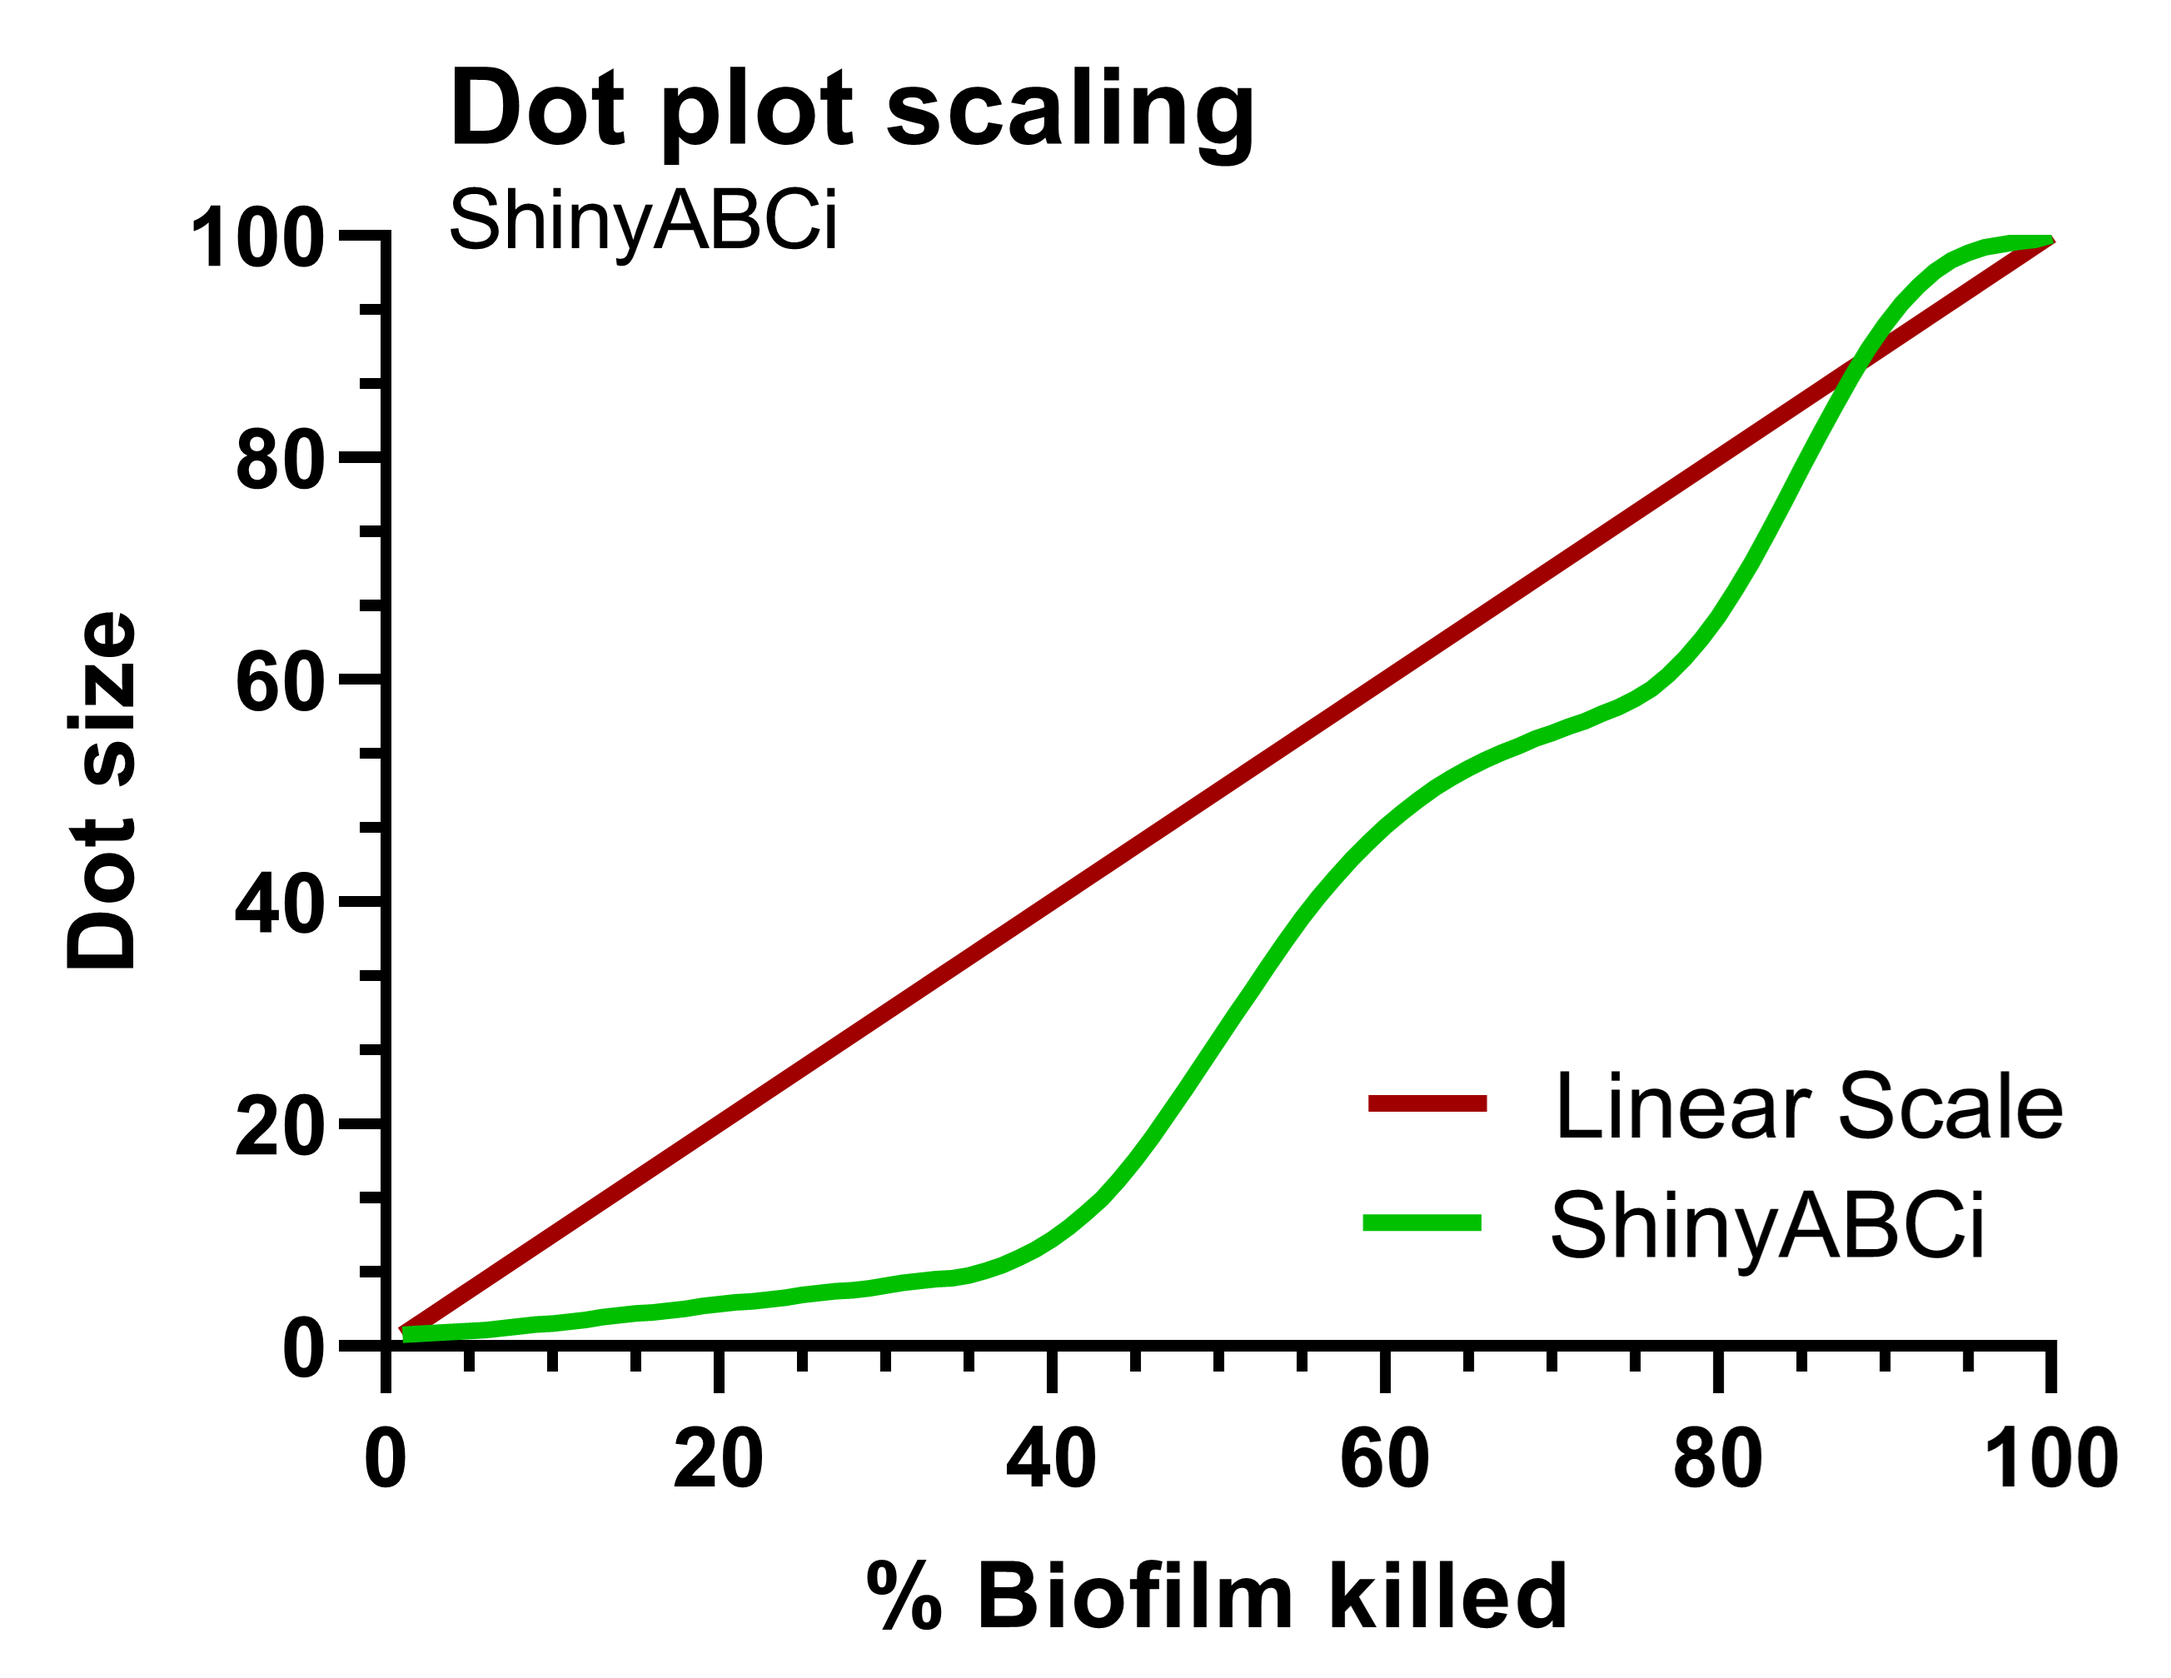
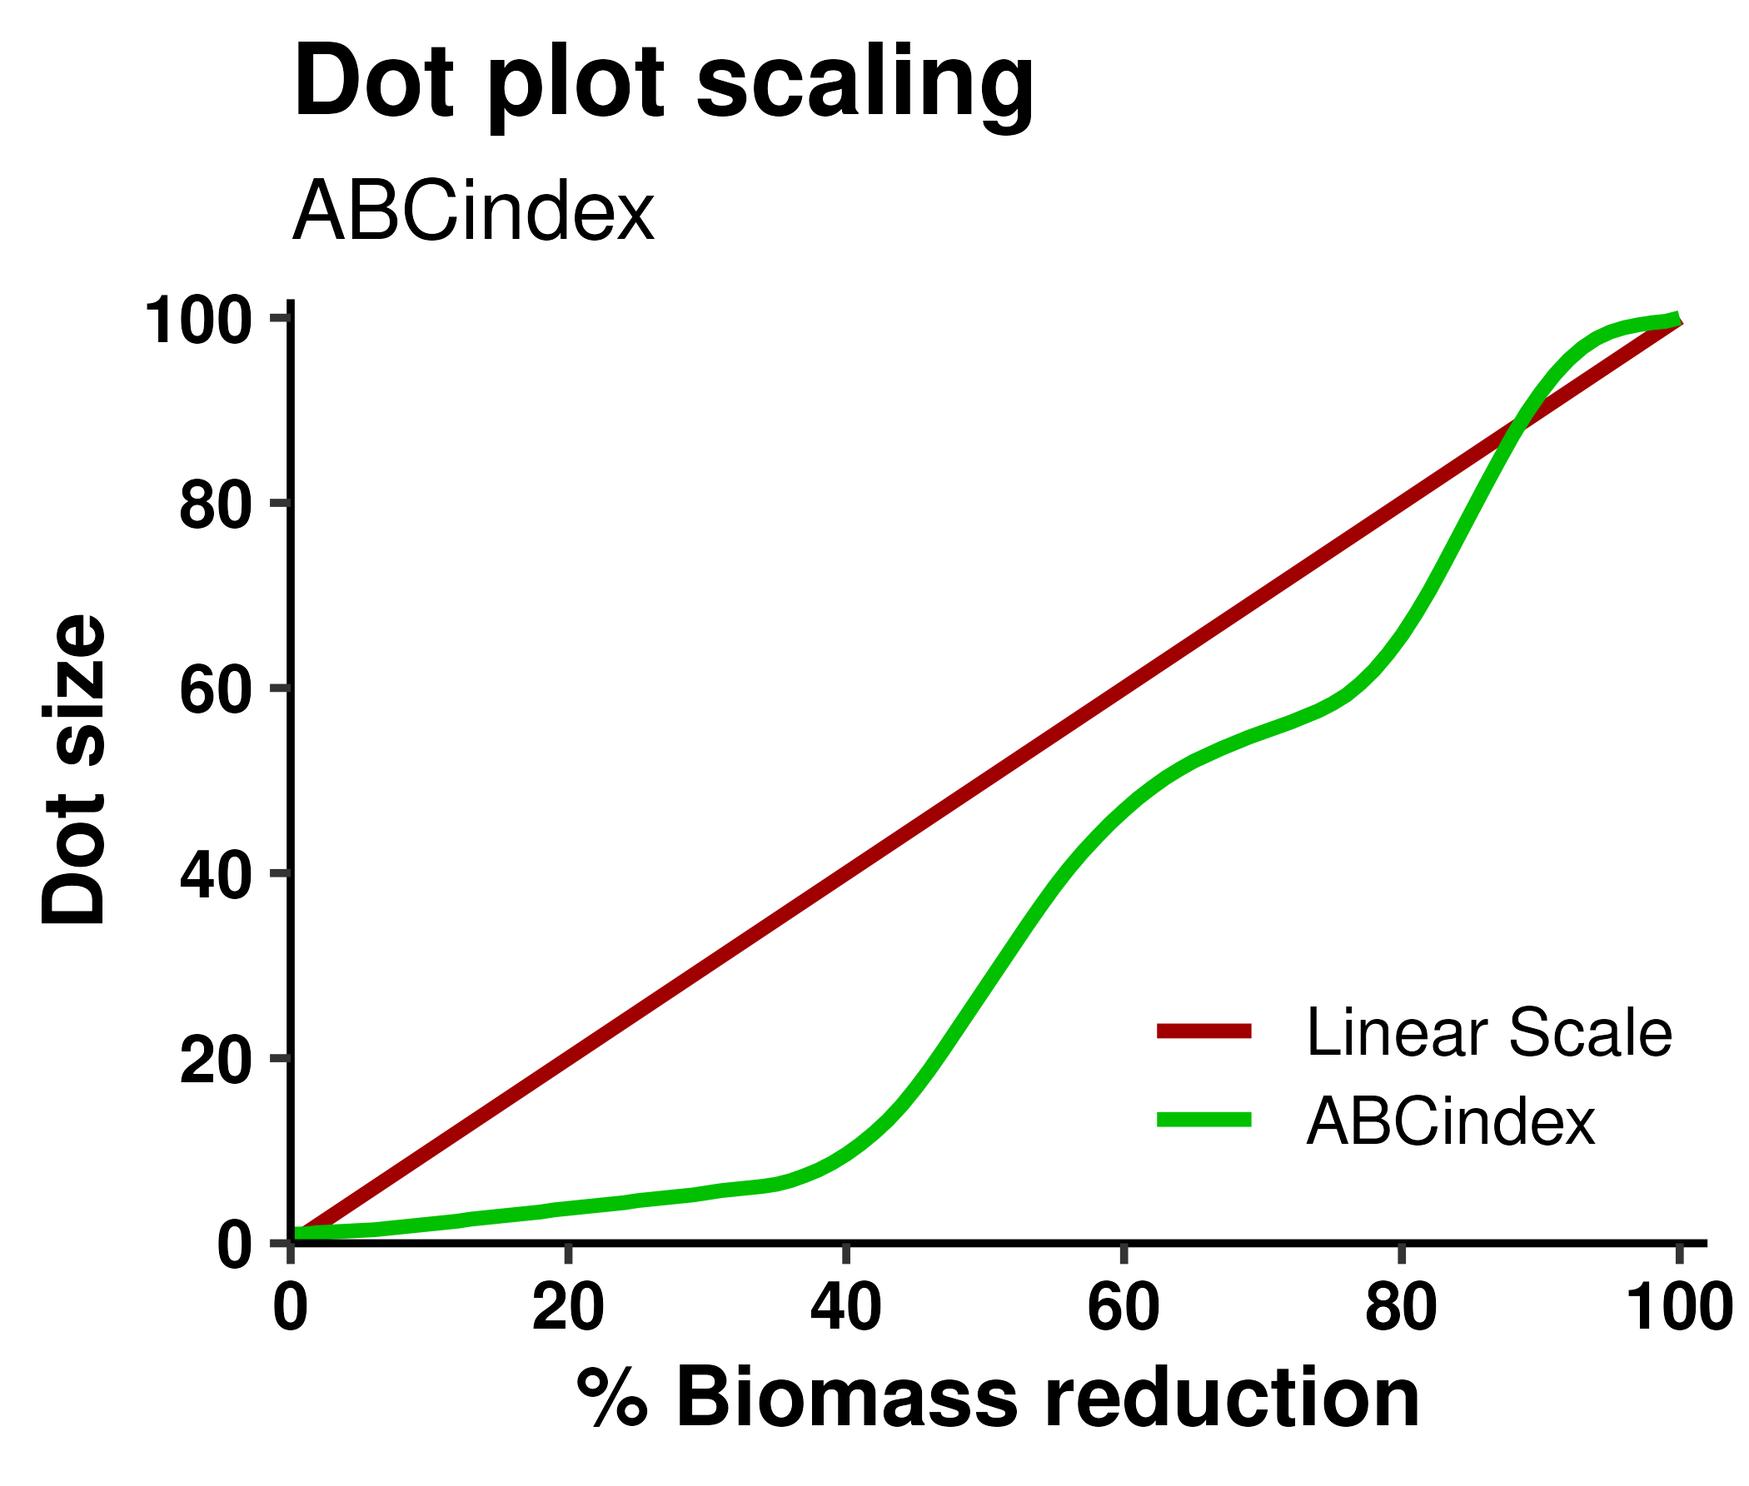
Further tweaks to dot scaling plot, incorporated into a helper script.

diff --git a/www/help/help.html b/www/help/help.html
@@ -501,9 +501,9 @@
             </p>
             <p>
               Below, you can see the exact relationship between the percentage
-              of biofilm killed and the default dot size used by ABCindex.
+              of biomass killed and the default dot size used by ABCindex.
             </p>
-            <img src="help/dot_size_scaling.svg" alt="Dot size scaling" class="center img-fluid" style="width:50%">
+            <img src="help/dot_size_scaling.png" alt="Dot size scaling" class="center img-fluid" style="width:50%">
           </div>
         </div>
       </div>
